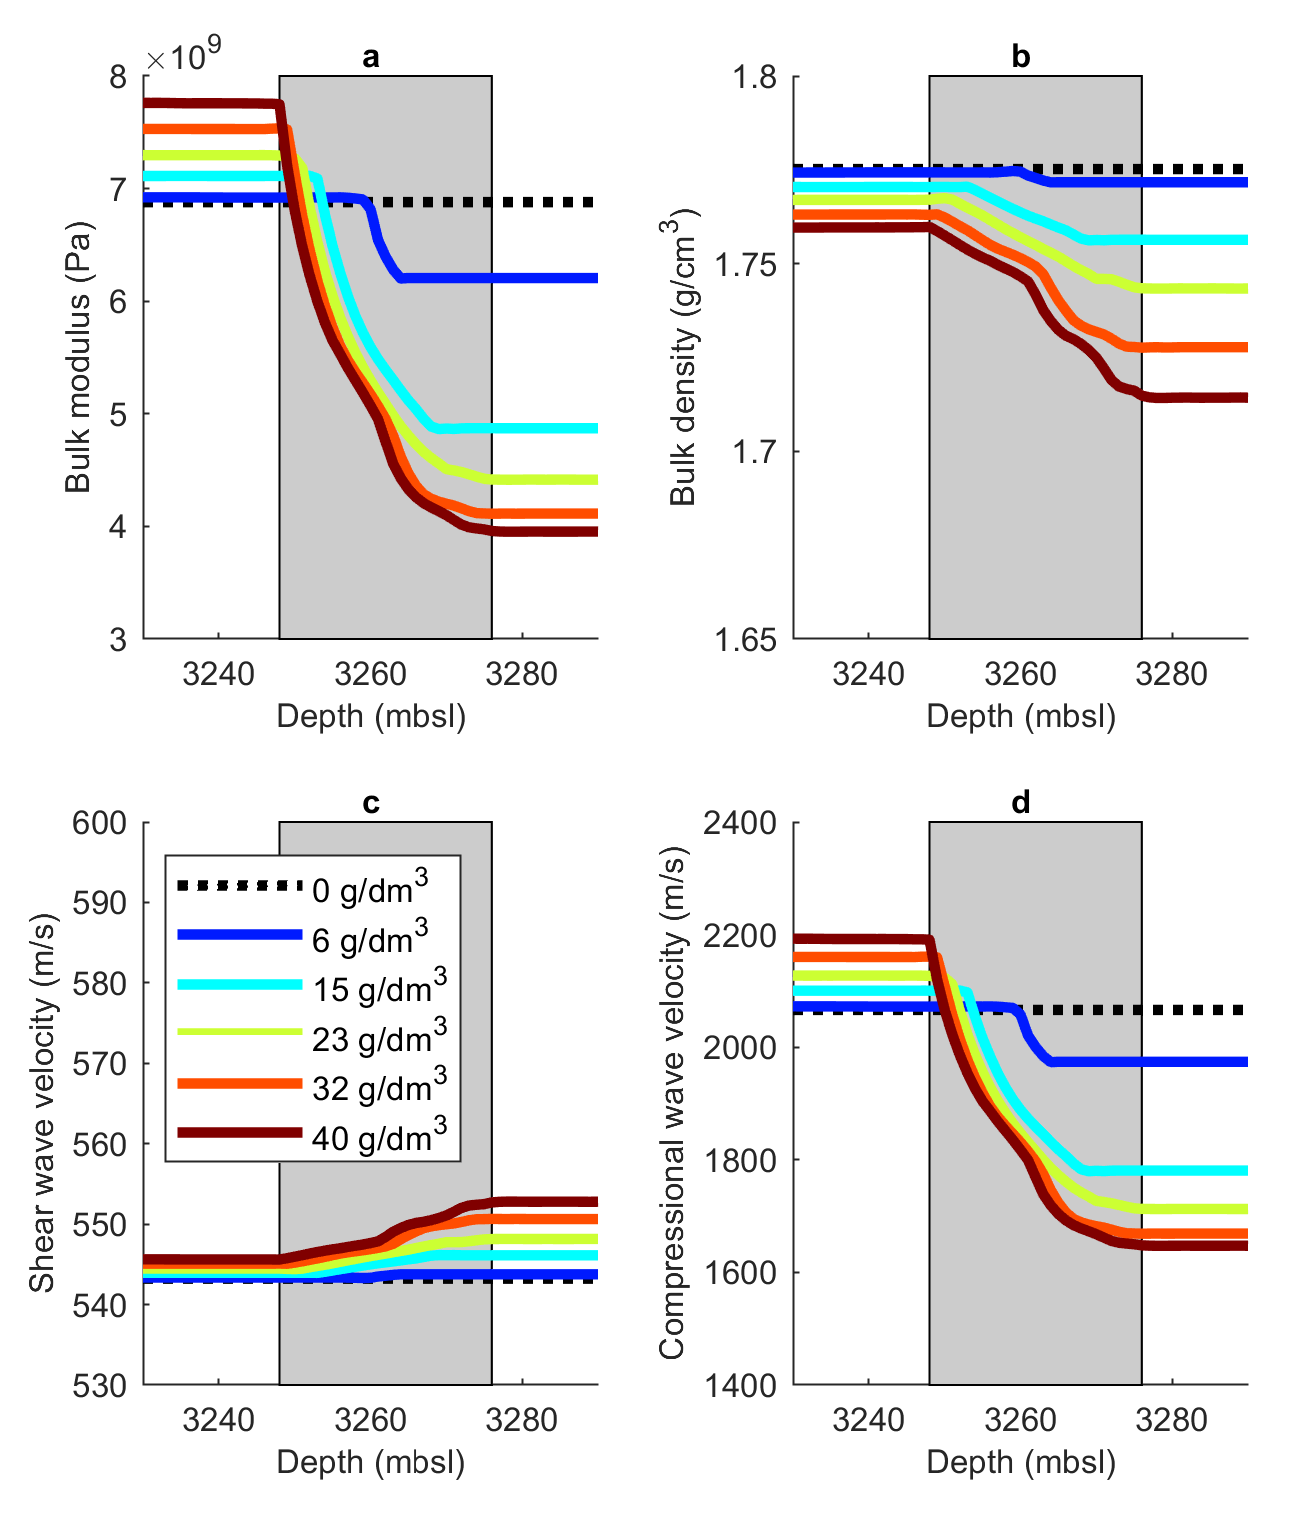
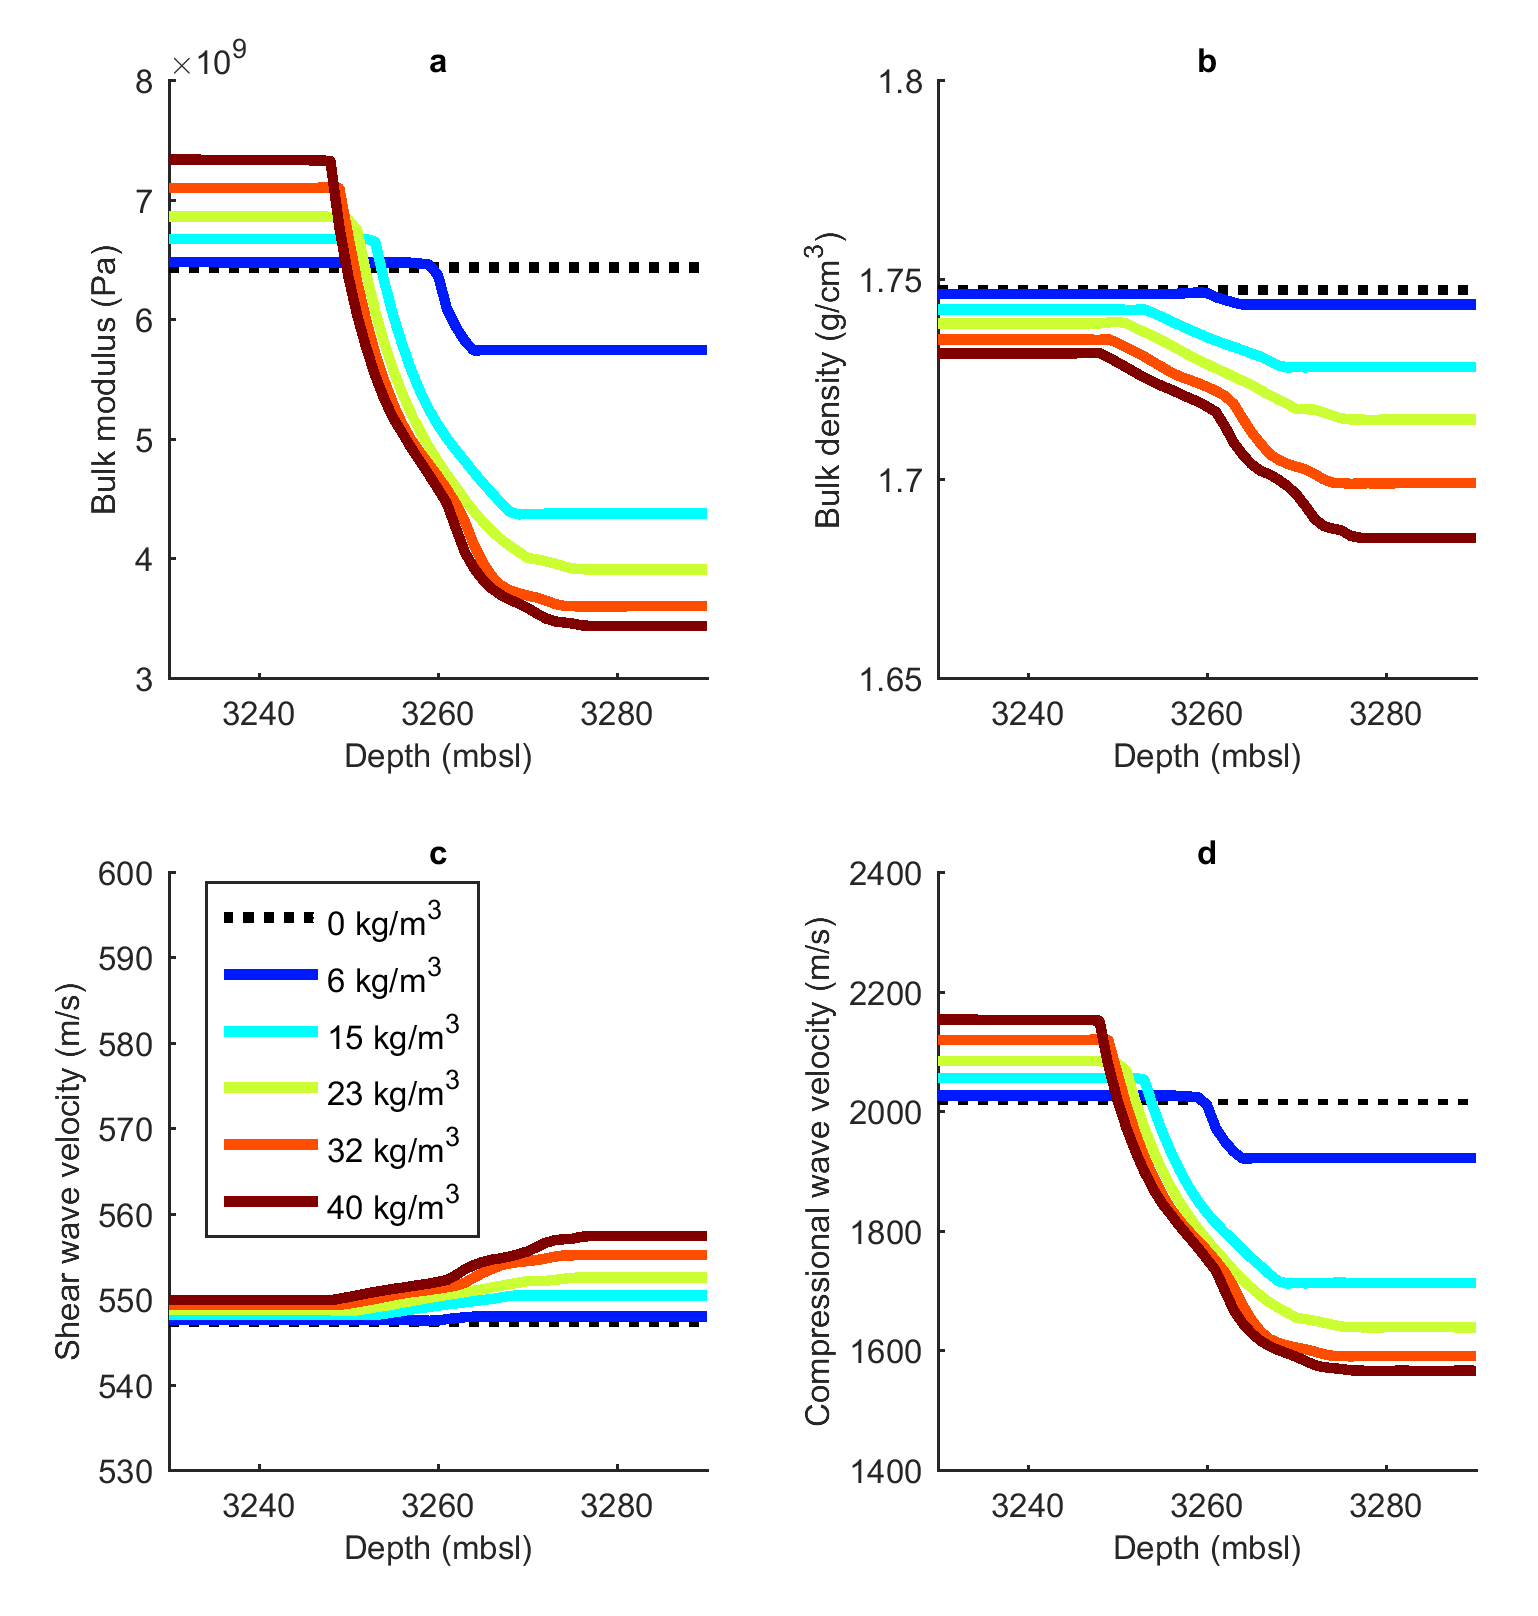
incremental commit

diff --git a/DCSeismicAnalysisBR.m b/DCSeismicAnalysisBR.m
@@ -19,9 +19,14 @@ classdef DCSeismicAnalysisBR < DCBlakeRidge
         liuBottom = 3300; % mbsl
         saturationTop = 200; % mbsf
         
-        sandK = 38*10^9; % Pa
-        clayK = 21.2*10^9; % Pa
-        waterK = 2.688*10^9; % Pa
+        sandK = 38.4e9; % Pa
+        clayK = 21.2e9; % Pa
+        waterK = 2.688e9; % Pa
+        
+        gasDensity = 0.3; % g/cm^3
+        clayDensity = 2.6; % g/cm^3
+        sandDensity = 2.65; % g/cm^3
+        
         
         seaVP = 1485; % m/s
         
@@ -433,11 +438,10 @@ classdef DCSeismicAnalysisBR < DCBlakeRidge
         end
         function [ bulkDensityFS ] = CalcBulkDensityFluidSubstituted( obj , gamma , porosity , Sw , Sg , Sh )
             waterDensity = obj.waterDensity / 1000; % g/cm^3
-            gasDensity = 0.3; % g/cm^3
-            hydrateDensity = (0.924 + 0.933) / 2; % g/cm^3
-            %hydrateDensity = 0.9; % g/cm^3
-            clayDensity = 2.6; % g/cm^3
-            sandDensity = 2.7; % g/cm^3
+            gasDensity_ = obj.gasDensity; % g/cm^3
+            hydrateDensity_ = (0.924 + 0.933) / 2; % g/cm^3
+            clayDensity_ = obj.clayDensity; % g/cm^3
+            sandDensity_ = obj.sandDensity; % g/cm^3
             
             shaleFreeSGR = 12;
             shalePureSGR = 110;
@@ -451,11 +455,11 @@ classdef DCSeismicAnalysisBR < DCBlakeRidge
             porosity(porosity > 1) = 1;
             
             fluidDensity = Sw .* waterDensity ...
-                         + Sg .* gasDensity ...
-                         + Sh .* hydrateDensity;
+                         + Sg .* gasDensity_ ...
+                         + Sh .* hydrateDensity_;
              
-            matrixDensity = gammaNormalized .* clayDensity ...
-                            + (1 - gammaNormalized) .* sandDensity;
+            matrixDensity = gammaNormalized .* clayDensity_ ...
+                            + (1 - gammaNormalized) .* sandDensity_;
             
             bulkDensityFS = porosity .* fluidDensity ...
                             + (1 - porosity) .* matrixDensity;
